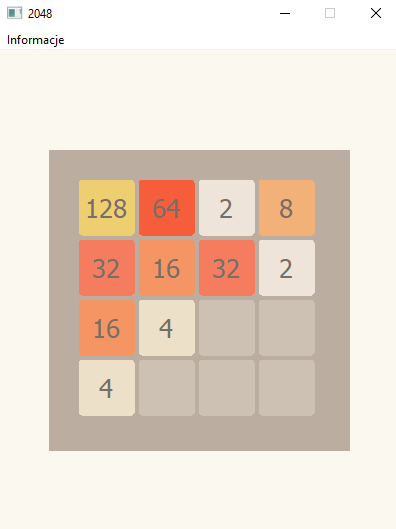
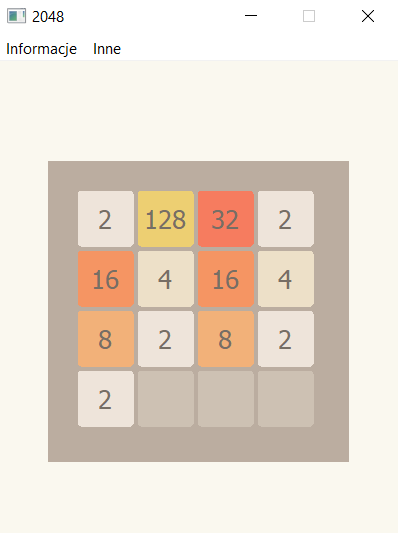
A little refactor

diff --git a/pyqt5/info.py b/pyqt5/info.py
@@ -6,20 +6,20 @@ class Info(QDialog):
     def __init__(self):
         super().__init__()
         self.setWindowTitle("Informacje o grze")
-        self.setGeometry(400, 400, 400, 400)
+        self.setFixedSize(800, 300)
 
         label = QLabel(
-            " W grze 2048 mamy do czynienia z planszą kwadratowych klocków o wymiarach 4x4. Do sterowania \n wykorzystujemy"
-            " strzałki klawiatury. Rozgrywkę zaczynamy z jednym klockiem z cyfrą 2 lub 4. \n Krótko mówiąc, gra 2048"
-            " polega na przesuwaniu kwadratowych pól, których wartości sumują się \n w chwili połączenia klocków."
-            " Zastrzeżenie jest takie, że dodawać do siebie można jedynie klocki \n o tej samej wartości. Celem gry jest"
+            " W grze 2048 mamy planszę kwadratowych klocków o wymiarach 4x4. Do sterowania \n wykorzystujemy"
+            " strzałki klawiatury. Rozgrywkę zaczynamy z jednym klockiem z cyfrą \n 2 lub 4. Gra 2048"
+            " polega na przesuwaniu kwadratowych pól, których wartości sumują \n się w chwili ich połączenia."
+            " Zastrzeżenie jest takie, że dodawać do siebie można \n jedynie klocki o tej samej wartości. Celem gry jest"
             " uzyskanie wyniku 2048. \n Gracz może przemieszczać kwadratowe klocki w pionie i w poziomie, każdy ruch \n"
-            " przesuwa je o jedno pole w wybranym kierunku, a po jego wykonaniu na planszy odkryte zostaje \n jedno pole z"
-            " cyfrą 2 lub 4. Klocki zatrzymują się, gdy natrafią na koniec planszy lub klocek o innej wartości. \n Gracz"
-            " wygrywa, gdy osiągnie wynik 2048, a przegrywa, gdy wszystkie pola będą zajęte."
+            " przesuwa je o jedno pole w wybranym kierunku, a po jego wykonaniu na planszy \n odkryte zostaje jedno pole z"
+            " cyfrą 2 lub 4. Klocki zatrzymują się, gdy natrafią na \n koniec planszy lub klocek o innej wartości. Gracz"
+            " wygrywa, gdy osiągnie wynik \n 2048, a przegrywa, gdy wszystkie pola będą zajęte."
         )
 
-        label.setStyleSheet("font-size: 20px; background-color: #fff; color: #000;")
+        label.setStyleSheet("font-size: 20px;")
 
         self.setWindowFlags(self.windowFlags() & ~Qt.WindowContextHelpButtonHint)
 

diff --git a/pyqt5/main.py b/pyqt5/main.py
@@ -33,18 +33,32 @@ class Main(QMainWindow):
         self.canvas = Canvas(self)
         self.setCentralWidget(self.canvas)
 
+        self.createMenu()
+
+        self.show()
+
+    def createMenu(self):
         infoAction = QAction('&O grze', self)
         infoAction.triggered.connect(self.clicked)
 
+        otherAction = QAction('&Nowa gra', self)
+        otherAction.triggered.connect(self.start_new_game)
+
         menu = self.menuBar()
+
         infoMenu = menu.addMenu('&Informacje')
         infoMenu.addAction(infoAction)
 
-        self.show()
+        otherMenu = menu.addMenu('&Inne')
+        otherMenu.addAction(otherAction)
 
     def clicked(self):
         info = Info()
         info.exec_()
+
+    def start_new_game(self):
+        self.close()
+        self.__init__()
 
     def keyPressEvent(self, event):
         if self.state == "lose" or self.state == "win":
